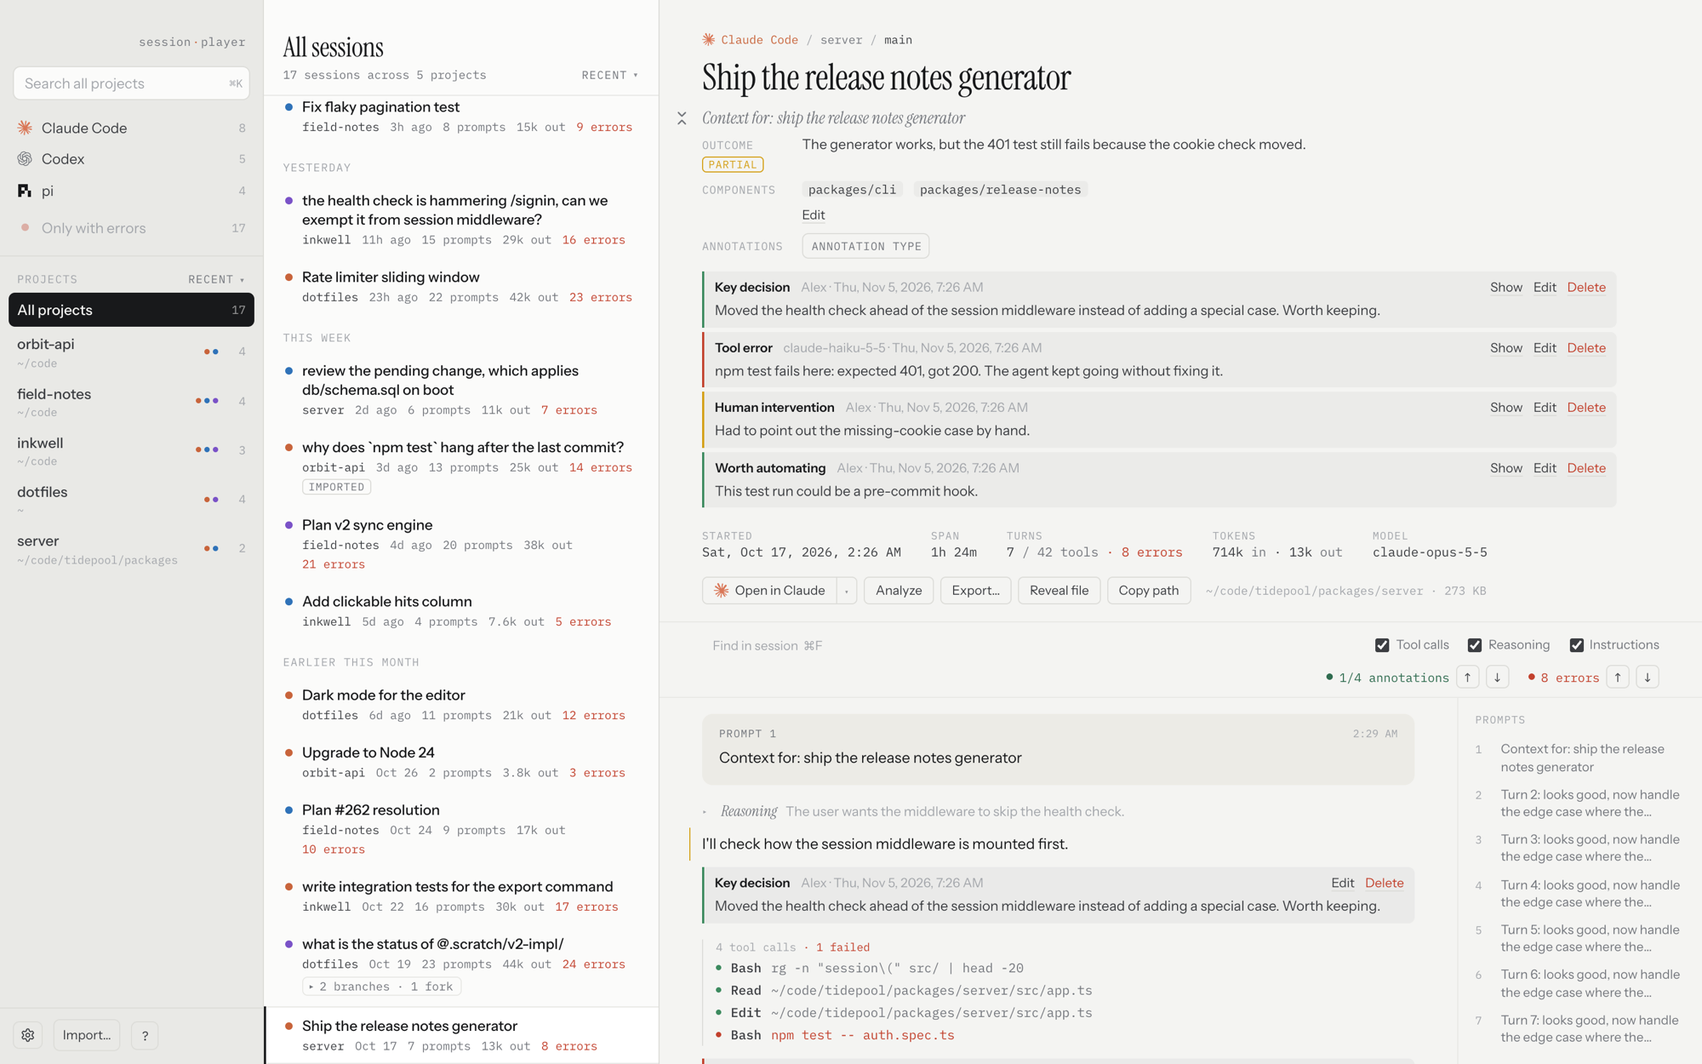
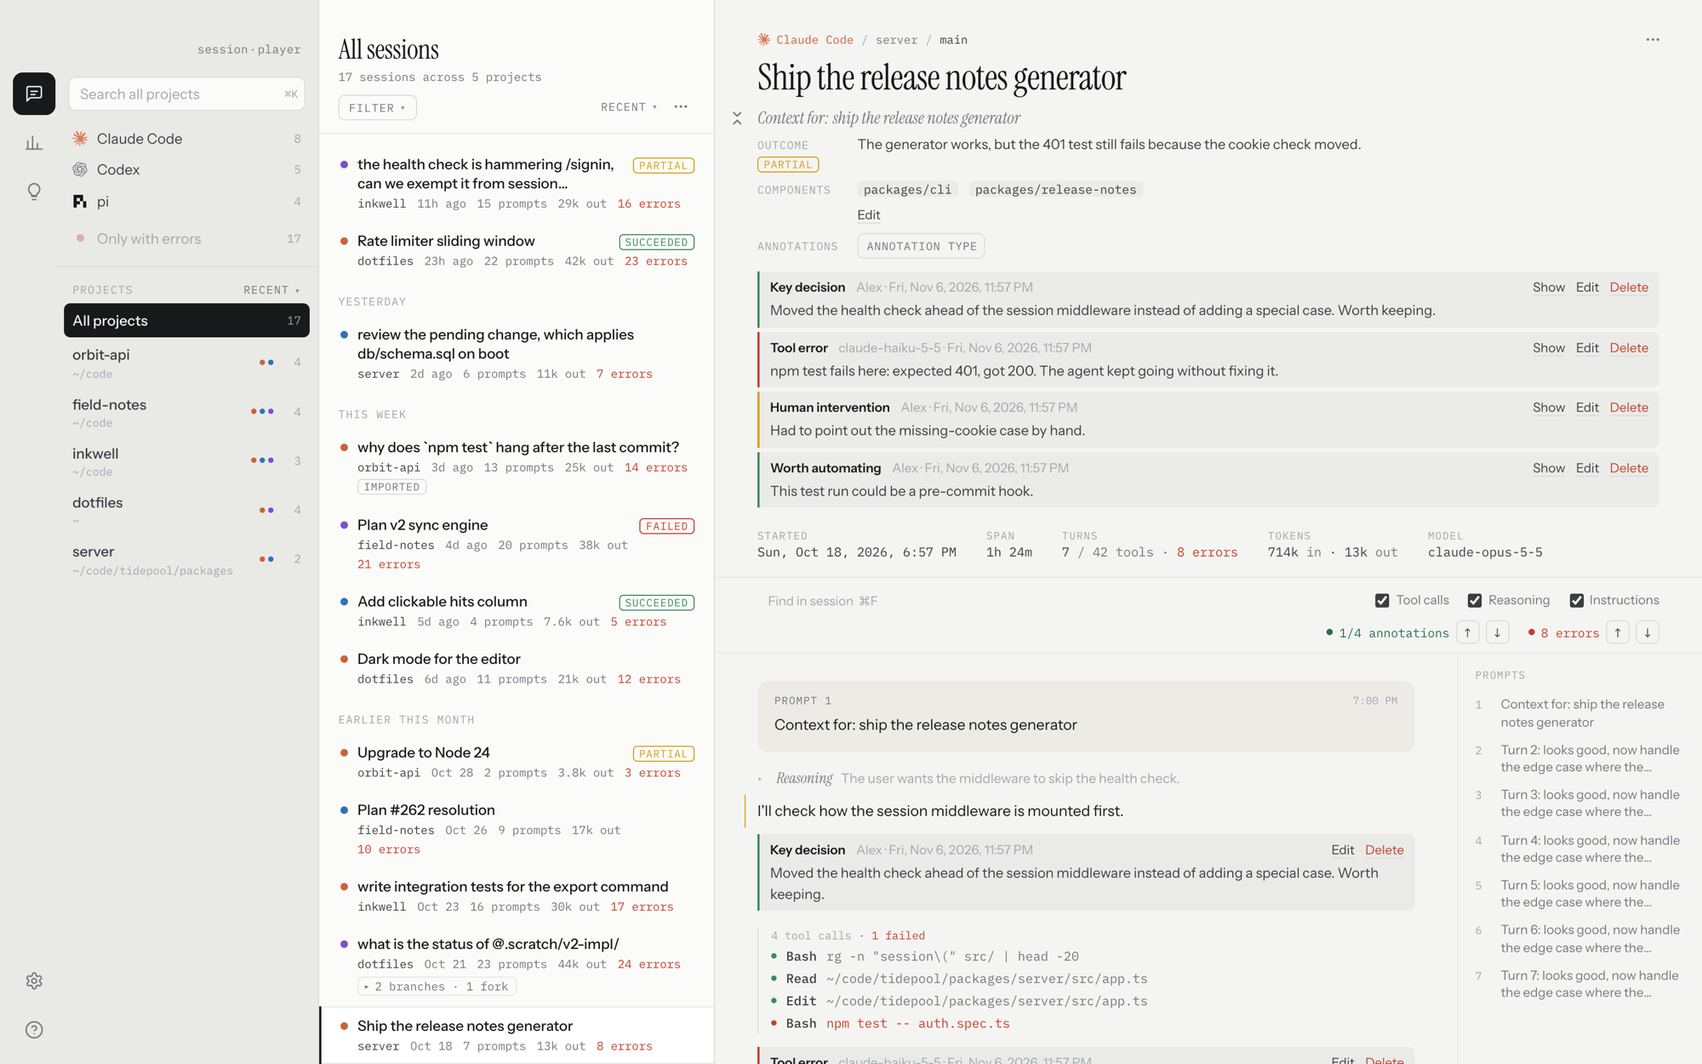
Shorten the README and update its screenshots
Usage now covers each feature in a sentence or two, with new screenshots
of Transcripts, Statistics and an Insights report. Dark-mode copies are
gone, and the preview's sample report reads like a real one.

diff --git a/src/devBridge.ts b/src/devBridge.ts
@@ -180,14 +180,14 @@ function devReport(picked: { key: string; title: string }[]): Report {
     prompt_version: 1,
     sessions,
     stats: { sessions: sessions.length, outcomes, kinds, annotations: cited.length },
-    summary: "Synthetic summary: most of these sessions hit tool errors, and a few went wrong because the agent lacked context it needed.",
+    summary: "Most of these sessions lost time to failing test runs the agent retried instead of reading. Two went wrong because the agent didn't know how the project runs its tests.",
     takeaways: [
-      { text: "Synthetic takeaway: failed tool calls recur across sessions.", evidence: evidence(["tool_error"]) },
-      { text: "Synthetic takeaway: the agent misses project conventions.", evidence: evidence(["missing_context", "ignored_instruction"]) },
+      { text: "The agent reruns a failing test command several times before reading its output.", evidence: evidence(["tool_error"]) },
+      { text: "The agent doesn't know the project runs its tests with npm run test:unit, and guesses npm test instead.", evidence: evidence(["missing_context", "ignored_instruction"]) },
     ].filter((t) => t.evidence.length),
     actions: [
-      { title: "Document the test setup", category: "instructions" as const, priority: "high" as const, change: "Synthetic change: add a Testing section to AGENTS.md.", evidence: evidence(["missing_context", "ignored_instruction"]) },
-      { title: "Script the flaky retry", category: "automation" as const, priority: "medium" as const, change: "Synthetic change: add a retry script.", evidence: evidence(["tool_error", "agent_stuck"]) },
+      { title: "Document the test setup", category: "instructions" as const, priority: "high" as const, change: "Add a **Testing** section to `AGENTS.md` that names `npm run test:unit` and says to read a failure before rerunning.", evidence: evidence(["missing_context", "ignored_instruction"]) },
+      { title: "Script running the changed tests", category: "automation" as const, priority: "medium" as const, change: "Add a `scripts/test-changed.sh` that runs only the tests for changed files and prints the first failure.", evidence: evidence(["tool_error", "agent_stuck"]) },
     ].filter((a) => a.evidence.length),
     rejected: 0,
   };

diff --git a/README.md b/README.md
@@ -20,153 +20,63 @@
 
 | Usage | Development |
 |---|---|
-| [Install](#install)<br>[Add your sessions](#add-your-sessions)<br>[Find a session](#find-a-session)<br>[Search](#search)<br>[Read a session](#read-a-session)<br>[Spot errors](#spot-errors)<br>[Continue a session](#continue-a-session)<br>[Add notes and analysis](#add-notes-and-analysis)<br>[Share a session](#share-a-session)<br>[Settings](#settings)<br>[Keyboard shortcuts](#keyboard-shortcuts) | [Run it locally](#run-it-locally)<br>[Test](#test)<br>[Build](#build)<br>[Release](#release)<br>[Add support for a new agent](#add-support-for-a-new-agent)<br>[How it works](#how-it-works) |
+| [Install](#install)<br>[Add your sessions](#add-your-sessions)<br>[Find a session](#find-a-session)<br>[Search](#search)<br>[Read a session](#read-a-session)<br>[Continue a session](#continue-a-session)<br>[Add notes](#add-notes)<br>[Analyze sessions](#analyze-sessions)<br>[See patterns across sessions](#see-patterns-across-sessions)<br>[Get Insights](#get-insights)<br>[Share a session](#share-a-session)<br>[Settings](#settings)<br>[Keyboard shortcuts](#keyboard-shortcuts) | [Run it locally](#run-it-locally)<br>[Test](#test)<br>[Build](#build)<br>[Release](#release)<br>[Add support for a new agent](#add-support-for-a-new-agent)<br>[How it works](#how-it-works) |
 
 ## Usage
 
-<picture>
-  <source media="(prefers-color-scheme: dark)" srcset="docs/images/overview-dark.png">
-  <img src="docs/images/overview-light.png" alt="Session Player showing agent and project filters in the left sidebar, a list of sessions in the middle, and a session's outcome, annotations and transcript on the right">
-</picture>
+<img src="docs/images/overview-light.png" alt="Session Player showing view icons on the left edge, agent and project filters beside them, a list of sessions in the middle, and a session's outcome, annotations and transcript on the right">
 
-A few words used below:
-
-| Word | Meaning |
-|---|---|
-| **Agent** | A coding tool. Session Player reads sessions from Claude Code, Codex and pi. |
-| **Session** | One conversation with an agent. |
-| **Transcript** | The full record of a session. |
-| **Project** | The folder a session ran in. |
-| **Subagent** | A helper session that an agent starts to handle part of its work. |
-| **Fork** | A copy of a session, made to continue in a new direction while the original stays as it was. |
-| **Branch** | In pi, another path through the same session, made by going back to an earlier message and continuing from there. |
-| **Btw** | A quick side question asked with `/btw` during a session. Session Player doesn't show Codex `/btw` conversations because they are not saved anywhere. |
+The icons on the window's left edge switch between three views: **Transcripts** for reading sessions, **Statistics** for counts across them, and **Insights** for reports.
 
 ### Install
 
-1. Download the latest `.dmg` from [Releases](https://github.com/danmactough/session-player/releases/latest). It runs on Macs with Apple silicon.
-2. Open the `.dmg` and drag Session Player to Applications.
+Download the latest `.dmg` from [Releases](https://github.com/danmactough/session-player/releases/latest) and drag Session Player to Applications. It runs on Macs with Apple silicon.
 
 ### Add your sessions
 
-There's usually nothing to do. The first time it opens, the app adds each of these folders that exists:
-
-- `~/.claude/projects`
-- `~/.codex/sessions`
-- `~/.codex/archived_sessions`
-- `~/.pi/agent/sessions`
-
-To add another folder, open **Settings** (`⌘,`) and click **Add folder…**. The app finds session files anywhere inside it and works out which agent wrote each one.
-
-New sessions and new messages appear on their own while the app is open.
+Session Player finds sessions in the usual folders for Claude Code, Codex and pi on its own, and shows new ones as they're written. To add another folder, open **Settings** (`⌘,`).
 
 ### Find a session
 
-The left sidebar narrows down the session list next to it.
-
-- **Show one agent or several**: click the agent buttons at the top of the sidebar. To show only one agent, hover over its button and click **only**, or `⌥`-click the button.
-- **Show one project**: click it. Click it again, or press Esc in the list, to go back to **All projects**.
-- **Show several projects**: `⌘`-click adds or removes a project, `⇧`-click selects a run of them, and `⌘⇧`-click adds a run.
-- **Find a project**: type in the project filter, which appears when you have more than 8 projects. The session list narrows to match.
-- **Order projects**: choose **Recent**, **Oldest**, **A–Z** or **Z–A**, or drag a project to a new spot, which switches the order to **Manual**. New projects appear at the top of a manual order.
-- **Hide a project**: hover over it and click **Hide**. Its sessions leave the list, the counts and search. To bring it back, use **Settings**.
-
-Copies of a repository that Claude Code or Codex made to work in (git worktrees) are grouped with that repository. Chats in the Codex app that aren't in a project are grouped as one project, `~/Documents/Codex`.
-
-In the session list:
-
-- Move between sessions with `j` and `k` or the arrow keys.
-- Sort by **Recent**, **Oldest**, **Most prompts** or **Most tokens**.
-- Click a toggle such as "2 branches · 1 subagent" to show the sessions that came from that one: subagents, forks and pi branches.
-- Subagent sessions are hidden until you clear **Hide subagent sessions** in **Settings**.
-- Click **Only with errors** to keep only sessions with an error. Each session shows how many it has.
-
-Each session's title is the one the agent gave it. If there isn't one, the title comes from an early prompt.
+The sidebar narrows the list by agent and project; `⌘`-click to choose several. **Only with errors** keeps sessions that hit an error. Subagents, forks and pi branches are grouped under the session they came from.
 
 ### Search
 
-Press `⌘K` or `/`, then type. Search looks through titles, folder paths, prompts, replies, what the agent passed to its tools, and your notes.
-
-If you've selected projects, search starts within them. Above the results, you can switch to **All projects**. To clear the search, press Esc or click the × in the box.
-
-Opening a result opens the session with your search already in its find bar.
+Press `⌘K` to search titles, prompts, replies, tool calls and your notes.
 
 ### Read a session
 
-Click a session to read its transcript:
-
-- **Prompts and replies** appear in order, with reasoning folded away.
-- **Tool calls** are grouped into compact rows. Click a row to see what went in and what came out. File edits appear as colored before-and-after changes.
-- **Files attached to a prompt** appear as folded cards. Click one to read it.
-- **Instructions the agent was given**, such as `CLAUDE.md`, `AGENTS.md`, skills and agent definitions, appear as folded blocks where the agent received them. Each is marked **user**, **repo** or **local** to show where it came from. Clear the **Instructions** checkbox to hide them.
-- **A ChatGPT chat that started a Codex task** appears as a folded **ChatGPT conversation** block above the request.
-
-Press `⌘F` to find text in the session. In a window wider than 1500 pixels, an outline of the prompts appears on the right. To make more room, the fold button in the margin under the title hides the first prompt, the analysis and the session stats.
-
-### Spot errors
-
-An error is a tool call that couldn't do what was asked, or a failure in the agent or the model. For example: an edit that didn't apply, a timeout or a denied command.
-
-A command that ran and failed, such as a failing test run, isn't counted. Its row shows "exit 1" or whichever code it returned. To count these too, turn on **Count failed shell commands as errors** in **Settings**.
-
-The ↑ and ↓ error arrows next to the find box step through a session's errors and open each one.
+Click a session to read it: prompts and replies, tool calls with what went in and came out, file edits as before-and-after changes, and the instruction files the agent was given, such as `CLAUDE.md`. Errors, such as an edit that didn't apply or a denied command, are marked, and the arrows by the find box step through them.
 
 ### Continue a session
 
-The **⋯** button at the top right of a transcript holds its actions. The first one either copies the command that resumes the session or opens it in another app; choose which under **Resume or open with**, then click it or press `⌘O` to run it. Your choice is remembered for each agent. The same menu has **Export…**, **Reveal file** and **Copy path**, and **Remove…** for an imported session.
+The **⋯** menu at the top right of a transcript copies the command that resumes the session, or opens it in Claude, ChatGPT, T3 Code or your terminal (`⌘O`).
 
-| Action | Available for |
-|---|---|
-| **Copy resume command** | All sessions on this Mac |
-| **Open in Claude** | Claude Code sessions in `~/.claude/projects`, if Claude is installed |
-| **Open in ChatGPT** | Codex sessions in `~/.codex`, if ChatGPT is installed |
-| **Open in T3 Code** | Sessions T3 Code ran or imported, if T3 Code is installed |
-| **Open in Terminal** | All sessions on this Mac. Choose from the installed terminals: Terminal, iTerm, Ghostty, and cmux |
+### Add notes
 
-macOS asks once for permission to control each terminal. You can also show a session's file in Finder, and jump between a subagent and the session that started it.
+<img src="docs/images/annotation-light.png" alt="A transcript scrolled to an annotated reply, with a Key decision note shown directly below it and arrows for stepping through the session's annotations">
 
-### Add notes and analysis
+Each session can record its **outcome** (succeeded, partial, failed or unknown), the **components** of the codebase it touched, and **annotations** on particular moments, such as a tool error or a key decision. Hover over a message and click **+** to add one.
 
-<picture>
-  <source media="(prefers-color-scheme: dark)" srcset="docs/images/annotation-dark.png">
-  <img src="docs/images/annotation-light.png" alt="A transcript scrolled to an annotated reply, with a Key decision note shown directly below it and arrows for stepping through the session's annotations">
-</picture>
+### Analyze sessions
 
-Each session can record how it went. Use **Analyze…** in the session list's **⋯** Actions menu (`⌘Y`) to have Claude Haiku fill this in, or add it yourself:
+Analyze has Claude fill in the outcome, components and annotations for you. Choose **Analyze…** from the **⋯** menu above the session list (`⌘Y`), pick sessions, and click **Analyze**. It needs Claude Code installed.
 
-- **Outcome**: succeeded, partial, failed or unknown, with the reason.
-- **Components**: the parts of the codebase it worked on, such as `packages/api`.
-- **Annotations**: your notes on particular moments.
+### See patterns across sessions
 
-**Add an annotation**: hover over a message and click **+** in the margin, or open a tool call and click **Annotate this call**. Pick a type, then add a note.
+<img src="docs/images/statistics-light.png" alt="The Statistics view, with counts of sessions, outcomes and annotation types for the sessions in the list">
 
-**Use them**: the list under the transcript's title shows every annotation, and **Show** jumps to its place in the transcript. The ↑ and ↓ annotation arrows step through them. Use the **Filter** menu under the session list's heading to find matching sessions: hover **Analyzed**, **Outcome** or **Annotation type** and tick the options you want. You can tick several options in each group, and a session must match every group. The button shows how many options are ticked, and the **×** beside it clears them all. The transcript's annotation list has its own **Annotation type** filter.
+**Statistics** counts outcomes and annotation types across the sessions in the list, or the ones you select.
 
-**Views**: the icons down the window's left edge switch between **Transcripts** (reading sessions), **Statistics** and **Insights**; the gear and the question mark at the bottom open Settings and the keyboard shortcuts.
+### Get Insights
 
-**See them across sessions**: click **Statistics**. Its counts cover the sessions the list shows, or only the sessions you select: how many were analyzed or annotated, how many have each outcome, how many annotations of each type there are, who wrote them, and how confident Analyze was. Click an outcome or annotation type to narrow the list to it, and click it again to clear that filter.
+<img src="docs/images/report-light.png" alt="An Insights report with a summary, recommended actions with their evidence, key takeaways and the sessions it covers">
 
-Each view keeps its own projects, filters, search, expanded rows and scroll position, so switching back to **Transcripts** finds the list and the open transcript exactly as you left them. Transcripts always has one session open.
-
-**Analyze sessions**: choose **Analyze…** from the **⋯** Actions button above the session list, or press `⌘Y`. The open session (in Transcripts) or the sessions already selected (in Statistics) start selected. Change the selection as in Insights: click one, ⌘-click to add or remove one, ⇧-click a run, or ⌘A for every session the list shows under its filters and search. **Filter › Analyzed › Not analyzed** narrows the list to sessions not analyzed yet. Click **Analyze • (n)** in the bar under the list to queue them and run them one at a time, or **Cancel** (or Esc) to leave without analyzing. When some of them were analyzed before, the app asks whether to **Analyze Again** or analyze them **Only If Changed**, which skips a session whose transcript hasn't changed since its last analysis. While the queue runs, a spinner and "Analyzing 3/10" show in the small tray at the bottom of the left column, where "Indexed" appears. Click it to see each session's result; × cancels one and **Cancel all** stops the rest. When every session is done, the tray says "Analyze · Done", or how many failed, until you open it and click **Clear**. The queue isn't kept when the app quits, but the Analyze log is: **Log** at the top of the queue, **Open log** under a report that failed, and **Settings › Annotations › Open Log** all open it. It records each Analyze and report run and each call to `claude`, with `claude`'s own error output when one fails.
-
-**Customize what Analyze and reports look for**: the **Analyze** and **Get insights** buttons each have a chevron on the right. Its **Customize prompt…** opens the text that tells the model what to focus on, such as the kinds of problems to look for or who the report is for. Edit it and click **Analyze** or **Get insights** to run once with your text. Tick **Set as default** to keep it, so the plain button uses it from then on; **Restore built-in** puts back the app's own text. Only this focus can change: the rules about citing evidence and the shape of the reply stay the same. A report written with your own text says **Custom prompt** under its title; click it to read the text.
-
-**Select sessions in Statistics**: click a session to count only it, ⌘-click to add or remove one, ⇧-click to select a run, or ⌘A for every session in the list. Press Esc or click an empty part of the list to count the whole list again.
-
-**Write a report**: click **Insights**. Under **New Insight Report**, click **Create**; the button then reads **Select**. Choose sessions in the list that appears (click, ⌘-click, ⇧-click or ⌘A for all; the project list, search and source filters beside it, the Filter menu and **Recent** / **Oldest** sort work as elsewhere, with their own choices for Insights). Once some are chosen the button reads **Get insights**: click it. Sessions that haven't been analyzed are analyzed first (the report list shows "Analyzing N sessions first"), then the report is written on all of them. Tick **Also re-analyze sessions that already have an analysis** to analyze every chosen session again first; the app remembers that choice. A model (Claude Sonnet) reads their outcomes, components and annotations and writes a summary, key takeaways and recommended actions: changes to the codebase, skills, prompts and instruction files, the environment, or work to automate. Insights lists saved reports under **Build a report**, sorted by **Recent** or **Oldest**; a report being written shows there with its progress, and opens when it's done. A report you open fills the space to the right. Each takeaway and action lists what it rests on: click one to see the annotation or outcome as the report saw it (marked if it has been edited or deleted since), and **Open in Transcripts** to go to that session. A report never changes once written; write another to include newer notes. The **⋯** button at the top right of a report has **Copy as Markdown** and **Save as .md…** to export it, and **Delete…** to remove it.
-
-**Change the outcome or components**: click **Edit**.
-
-**Analyze** needs Claude Code installed. Before it sends anything, it shows a notice that transcripts go to Anthropic, with **OK** and **Cancel**. Tick **Don't show this again** and click OK to stop seeing it; **Settings › Annotations** can turn it back on. Everything Analyze writes can be edited or deleted. Running it again replaces the outcome and components, including ones you wrote or emptied, and its own annotations that nobody has edited; annotations people wrote or edited are kept.
-
-These notes are stored in the app, not in the agent's files.
+In **Insights**, choose sessions and click **Get insights**. Claude reads their analysis and recommends changes to your code, agent instructions, skills, setup or automation, each linked to the notes it's based on.
 
 ### Share a session
 
-**Send**: open the session, click the **⋯** button at the top right of the transcript, choose **Export…**, and leave ticked any subagents you want to include. Before saving, the app lists exactly what goes into the file and what stays out. It saves a `.spsession` file that anyone with Session Player can import. Exporting needs your name: if Settings doesn't have one yet, the export sheet asks for it. The file records your name, and the recipient sees it as the author of annotations you wrote before you set a name.
-
-**Receive**: choose **Import…** from the **⋯** Actions button above the session list, or press `⌘⇧I`. Imported sessions are marked "imported". They can be read, searched and exported, but not resumed. To delete one, choose **Remove…** from the **⋯** menu at the top right of its transcript.
+Choose **Export…** from the **⋯** menu at the top right of a transcript to save it as a `.spsession` file, notes included. Anyone with Session Player can open it with **Import…** (`⌘⇧I`).
 
 ### Settings
 
@@ -345,7 +255,7 @@ Until you pick an action, the button uses the agent's own app.
 - **Analyze** asks Claude Haiku for the outcome, components and annotations. It runs the `claude` command from Claude Code with no tools and the transcript passed as data.
 - It also sends the context the agent was given, each document once (up to 20,000 characters each and 60,000 in all), so it can tell when the agent ignored an instruction.
 - It runs with the variables your login shell exports and the `env` block of your Claude settings (`~/.claude/settings.json` and `settings.local.json`, or under `$CLAUDE_CONFIG_DIR`). When those name credentials of their own (`ANTHROPIC_API_KEY`, `ANTHROPIC_AUTH_TOKEN`, an `apiKeyHelper`, or Bedrock or Vertex), Analyze uses only them, so an LLM gateway such as LiteLLM gets its base URL, token, `ANTHROPIC_CUSTOM_HEADERS` and model mappings. Otherwise it uses your Claude Code sign-in.
-- A field you empty stays empty until you fill it in yourself. Results generated from an earlier version of a growing transcript are marked as out of date. An annotation whose event isn't in the transcript any more is marked "event not found", not dropped.
+- Each run replaces the outcome and components. The prompt's rules are fixed; only its "what to focus on" paragraph can be customized. Each run and each `claude` call is written to `~/Library/Logs/com.danmactough.sessionplayer/analyze.log`. Results generated from an earlier version of a growing transcript are marked as out of date. An annotation whose event isn't in the transcript any more is marked "event not found", not dropped.
 - Long sessions are sent in parts and the results merged. Analysis runs in the background and can be cancelled.
 
 #### Reports
